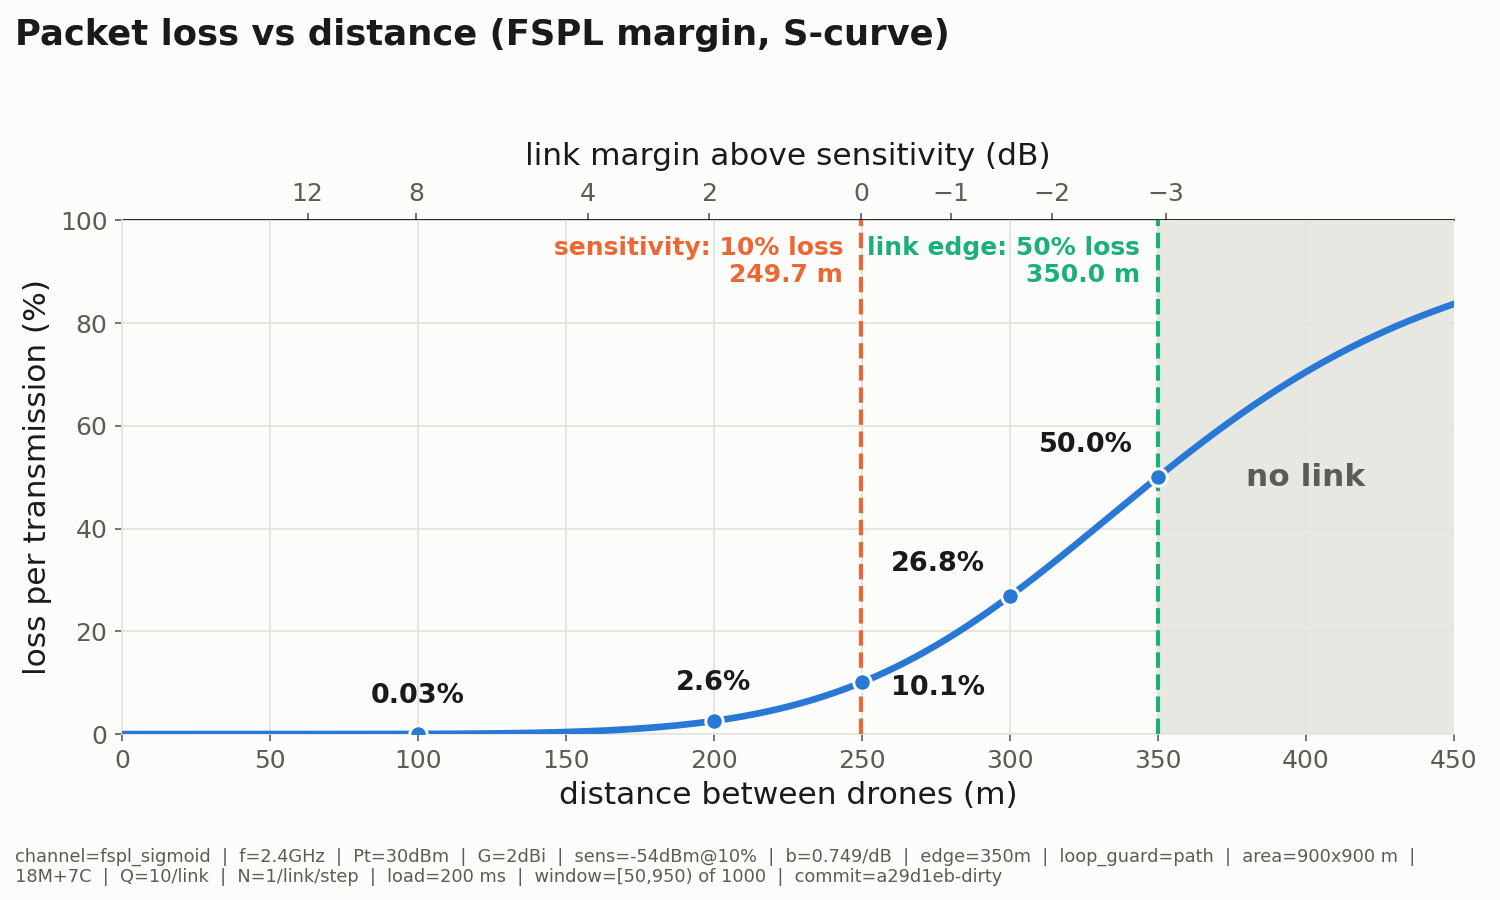
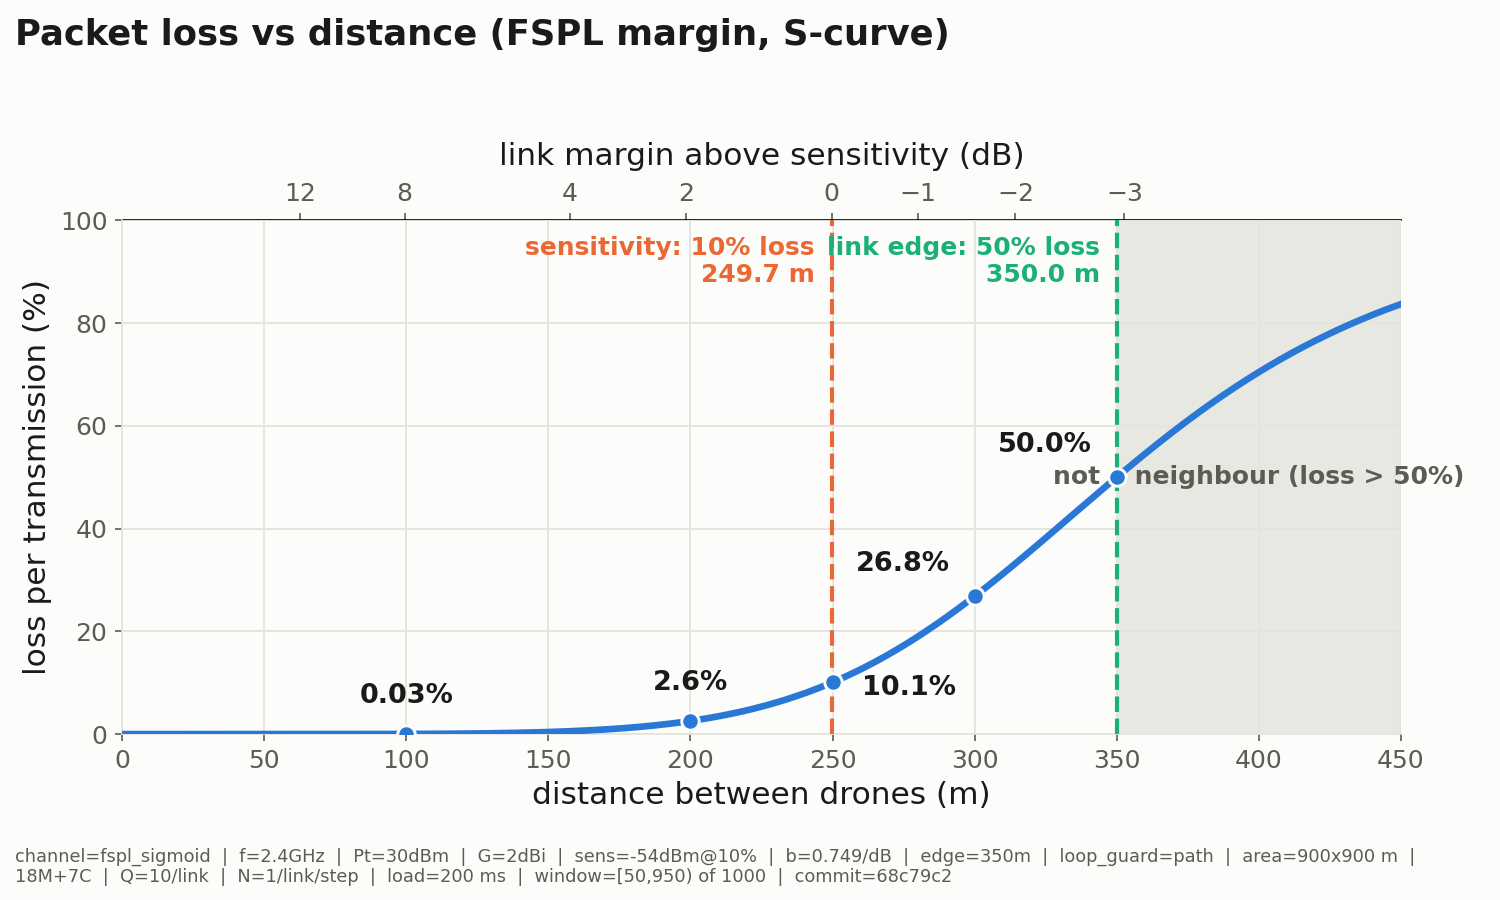
plot_ploss: move the shaded-region label clear of the curve
At y = 50 the longer label sat on the curve and on the 350 m marker.

diff --git a/rl_sim/scripts/plot_ploss.py b/rl_sim/scripts/plot_ploss.py
@@ -111,9 +111,11 @@ def plot(out_path: str, stamp: bool = True) -> str:
 
     # Past the edge there is no link, so that part of the curve is never used.
     ax.axvspan(edge, X_MAX_M, color=GRID_COLOR, alpha=0.8, zorder=1)
-    ax.annotate(f"not a neighbour (loss > {config.LINK_MAX_LOSS:.0%})",
-                ((edge + X_MAX_M) / 2.0, 50.0), ha="center", va="center",
-                color=TEXT_SECONDARY, fontsize=12, fontweight="bold",
+    # High in the shaded band, where the curve has not reached yet: at
+    # y = 50 the label would sit on the curve and on the 350 m marker.
+    ax.annotate(f"not a neighbour\n(loss > {config.LINK_MAX_LOSS:.0%})",
+                ((edge + X_MAX_M) / 2.0, 90.0), ha="center", va="center",
+                color=TEXT_SECONDARY, fontsize=13, fontweight="bold",
                 zorder=2)
 
     ax.plot(distances, losses, color=CURVE_COLOR, linewidth=3.2, zorder=5)
